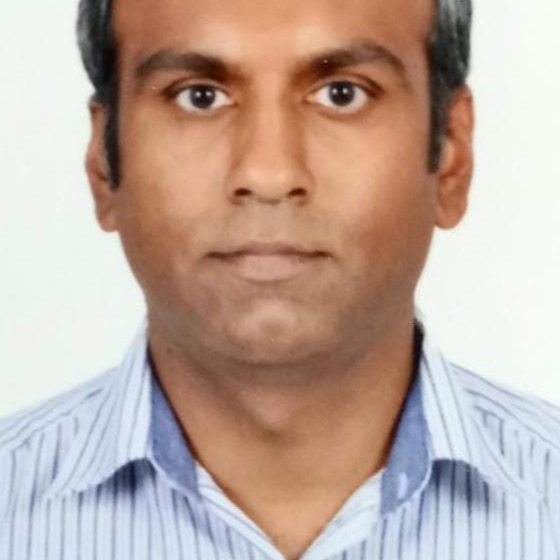
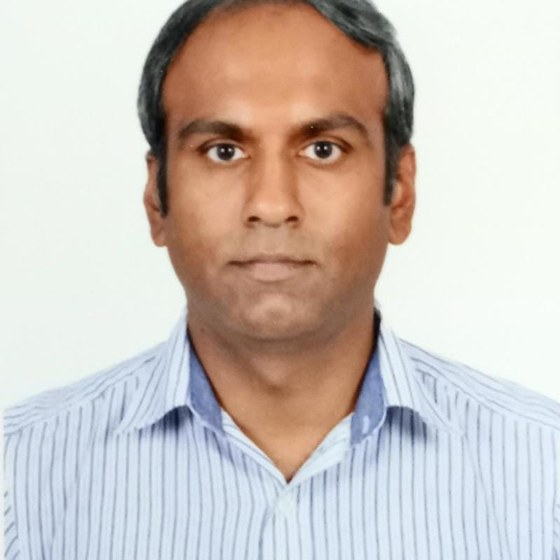
option2: fix team photo layout (responsive, clipped cards); rebuild headshots; add portrait script
Made-with: Cursor

diff --git a/option2/index.html b/option2/index.html
@@ -131,8 +131,6 @@
                 <img
                   src="assets/team-murali.jpg"
                   alt="Murali Ravindran"
-                  width="400"
-                  height="400"
                   loading="lazy"
                   onload="this.parentElement.classList.remove('no-photo')"
                   onerror="this.remove(); this.parentElement.classList.add('no-photo');"
@@ -161,8 +159,6 @@
                 <img
                   src="assets/team-sankar.jpg"
                   alt="Sankar Kaliaperumal"
-                  width="400"
-                  height="400"
                   loading="lazy"
                   onload="this.parentElement.classList.remove('no-photo')"
                   onerror="this.remove(); this.parentElement.classList.add('no-photo');"
@@ -190,8 +186,6 @@
                 <img
                   src="assets/team-muthu.jpg"
                   alt="Muthu Sathiamurthy"
-                  width="400"
-                  height="400"
                   loading="lazy"
                   onload="this.parentElement.classList.remove('no-photo')"
                   onerror="this.remove(); this.parentElement.classList.add('no-photo');"
@@ -220,8 +214,6 @@
                 <img
                   src="assets/team-sanjeev.jpg"
                   alt="Sanjeev Uruvandavida"
-                  width="400"
-                  height="400"
                   loading="lazy"
                   onload="this.parentElement.classList.remove('no-photo')"
                   onerror="this.remove(); this.parentElement.classList.add('no-photo');"

diff --git a/option2/styles.css b/option2/styles.css
@@ -431,11 +431,12 @@ section[id] {
 .team-grid {
   display: grid;
   gap: 1.25rem;
+  min-width: 0;
 }
 
 @media (min-width: 640px) {
   .team-grid {
-    grid-template-columns: repeat(2, 1fr);
+    grid-template-columns: repeat(2, minmax(0, 1fr));
   }
 }
 
@@ -447,24 +448,32 @@ section[id] {
   display: flex;
   flex-direction: column;
   gap: 0.85rem;
+  min-width: 0;
+  overflow: hidden;
 }
 
 .team-photo {
   position: relative;
+  margin: 0;
   width: 100%;
-  aspect-ratio: 1;
-  max-height: 220px;
+  max-width: 100%;
+  aspect-ratio: 1 / 1;
   border-radius: 12px;
   overflow: hidden;
   background: linear-gradient(145deg, #2a2620, #1a1815);
   border: 1px solid var(--line);
+  flex-shrink: 0;
 }
 
 .team-photo img {
+  position: absolute;
+  inset: 0;
+  display: block;
   width: 100%;
   height: 100%;
+  max-width: none;
   object-fit: cover;
-  object-position: center 22%;
+  object-position: center 35%;
   filter: saturate(0.96) contrast(1.03);
   transition: filter 0.3s ease;
 }

diff --git a/scripts/build_team_portraits.py b/scripts/build_team_portraits.py
@@ -1,0 +1,93 @@
+#!/usr/bin/env python3
+"""
+Build square team portraits for option2 from root assets/.
+- Optional whitespace trim (for headshots on white backgrounds).
+- Center-crop cover to OUT_SIZE x OUT_SIZE.
+"""
+from __future__ import annotations
+
+import sys
+from pathlib import Path
+
+ROOT = Path(__file__).resolve().parents[1]
+DEPS = ROOT / ".deps"
+if DEPS.is_dir():
+    sys.path.insert(0, str(DEPS))
+
+from PIL import Image  # noqa: E402
+
+OUT_SIZE = 560
+JPEG_QUALITY = 88
+
+# (source relative to repo root, dest relative to option2/, trim whitespace?)
+JOBS: list[tuple[str, str, bool]] = [
+    ("assets/murali.jpeg", "option2/assets/team-murali.jpg", True),
+    ("assets/sankar.jpeg", "option2/assets/team-sankar.jpg", True),
+    ("assets/muthu.jpg", "option2/assets/team-muthu.jpg", False),
+    ("assets/sanjeev.jpeg", "option2/assets/team-sanjeev.jpg", False),
+]
+
+
+def trim_near_white_bbox(im: Image.Image, thresh: int = 248) -> Image.Image:
+    """Crop to bounding box of pixels that are not uniformly near-white."""
+    rgb = im.convert("RGB")
+    w, h = rgb.size
+    px = rgb.load()
+    assert px is not None
+
+    def is_near_white(x: int, y: int) -> bool:
+        r, g, b = px[x, y]
+        return r >= thresh and g >= thresh and b >= thresh
+
+    left, top, right, bottom = w, h, 0, 0
+    found = False
+    for y in range(h):
+        for x in range(w):
+            if not is_near_white(x, y):
+                found = True
+                left = min(left, x)
+                right = max(right, x)
+                top = min(top, y)
+                bottom = max(bottom, y)
+
+    if not found:
+        return im
+
+    # If we'd remove almost everything, skip (bad threshold for this image).
+    area = (right - left + 1) * (bottom - top + 1)
+    if area < 0.15 * w * h:
+        return im
+
+    return rgb.crop((left, top, right + 1, bottom + 1))
+
+
+def cover_square(im: Image.Image, size: int) -> Image.Image:
+    im = im.convert("RGB")
+    w, h = im.size
+    scale = max(size / w, size / h)
+    nw, nh = max(1, int(round(w * scale))), max(1, int(round(h * scale)))
+    im = im.resize((nw, nh), Image.Resampling.LANCZOS)
+    left = (nw - size) // 2
+    top = (nh - size) // 2
+    return im.crop((left, top, left + size, top + size))
+
+
+def main() -> None:
+    for rel_src, rel_dst, do_trim in JOBS:
+        src = ROOT / rel_src
+        dst = ROOT / rel_dst
+        if not src.is_file():
+            print(f"skip missing: {src}")
+            continue
+        im = Image.open(src)
+        im.load()
+        if do_trim:
+            im = trim_near_white_bbox(im)
+        im = cover_square(im, OUT_SIZE)
+        dst.parent.mkdir(parents=True, exist_ok=True)
+        im.save(dst, "JPEG", quality=JPEG_QUALITY, optimize=True)
+        print(f"wrote {dst.relative_to(ROOT)} ({OUT_SIZE}x{OUT_SIZE})")
+
+
+if __name__ == "__main__":
+    main()
